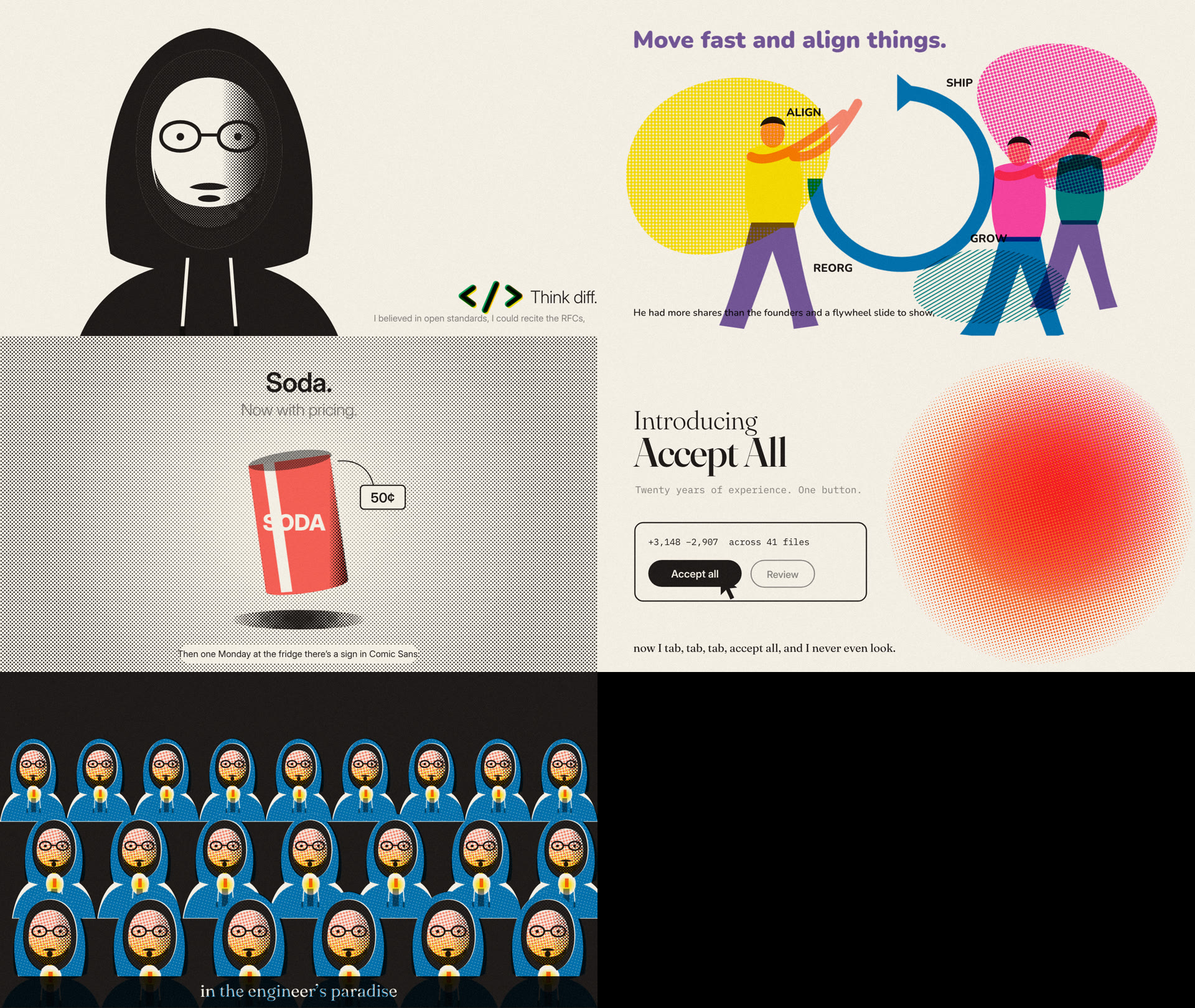
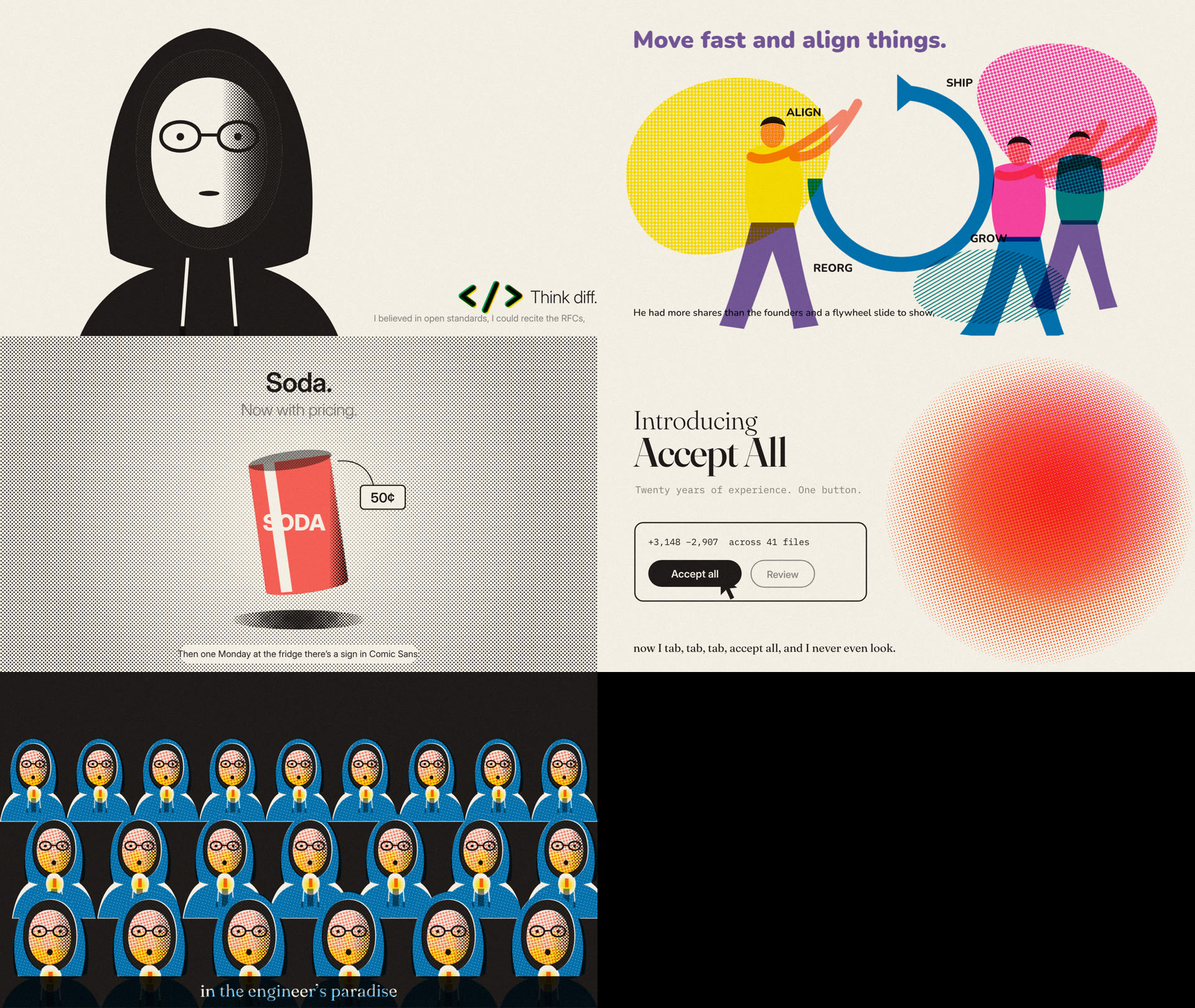
Style lab: clean-shaven hero
Claude-Session: https://claude.ai/code/session_01VisNrB77PK1sMCkFabKmzK

diff --git a/style-lab/frames2.js b/style-lab/frames2.js
@@ -7,7 +7,7 @@ const svg = (d) => new Path2D(d);
 const SANS = 'Inter, sans-serif', SERIF = 'Fraunces, serif', ROUND = 'Nunito, sans-serif', MONO = '"Plex Mono", monospace';
 const SKIN = ['coral', 0.28];               // light, warm, non-specific skin: sparse coral dots on paper
 
-// The hero: hood up, round glasses, short dark beard, hoodie drawstrings. s = scale.
+// The hero: hood up, round glasses, clean-shaven, hoodie drawstrings. s = scale.
 function hero(p, x, y, s, o = {}) {
   const T = (d) => { const m = new DOMMatrix().translate(x, y).scale(s); const q = new Path2D(); q.addPath(svg(d), m); return q; };
   const bb = [x - 420 * s, y - 420 * s, x + 420 * s, y + 600 * s];
@@ -23,10 +23,8 @@ function hero(p, x, y, s, o = {}) {
   if (o.skin !== false) p.fill(face, SKIN[0], SKIN[1], { bbox: bb });
   p.fill(face, 'black', { from: [x + 30 * s, y, 0], to: [x + 135 * s, y, o.shadow ?? 0.5] }, { bbox: bb, cell: 6 });
   if (o.uplight) p.fill(face, o.uplight, { from: [x, y + 200 * s, 0.6], to: [x, y - 40 * s, 0] }, { bbox: bb, cell: 6 });
-  // short beard along the jaw, moustache, mouth
-  p.fill(T('M-128 60 C-120 160 -65 205 0 208 C65 205 120 160 128 60 C112 118 72 150 0 152 C-72 150 -112 118 -128 60 Z'), 'black', 0.62, { bbox: bb, cell: 5 });
-  p.fill(T('M-46 106 C-22 92 22 92 46 106 C26 114 -26 114 -46 106 Z'), 'black', 0.8, { bbox: bb, cell: 5 });
-  p.fill(ell(x, y + 132 * s, (o.sing ? 18 : 26) * s, (o.sing ? 20 : 8) * s), o.mouth ?? 'black');
+  // mouth (clean-shaven)
+  p.fill(ell(x, y + 120 * s, (o.sing ? 18 : 24) * s, (o.sing ? 20 : 6) * s), o.mouth ?? 'black');
   // glasses + eyes
   p.line(T('M-112 -12 C-112 -58 -22 -58 -22 -12 C-22 32 -112 32 -112 -12 Z'), 'black', 7 * s + 1.5);
   p.line(T('M22 -12 C22 -58 112 -58 112 -12 C112 32 22 32 22 -12 Z'), 'black', 7 * s + 1.5);
